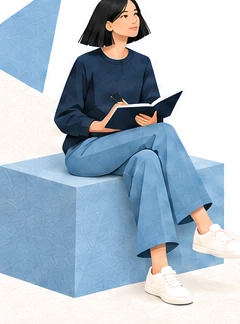
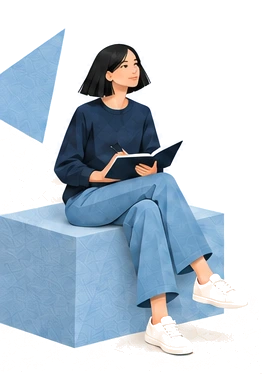
Offer page per design 05, stable question layout, visual and strength-first report
- #offer follows 05-report-offer with figures, ticked card, price and two perspectives
- question title sits in a fixed two-line slot; focusing it no longer scrolls the page
- question figure recut with the full head and a clean transparent background
- strengths lead in results and report; nuance box is quieter and last
- trait heads, facet cards, context cards and step cards with mini bars and chips

Claude-Session: https://claude.ai/code/session_01Pat3GFSHvYzsHQZoc1BQUK

diff --git a/app/ui.js b/app/ui.js
@@ -55,7 +55,7 @@ function assessment(focus=false){demo=false;report=null;
       <div class="d-progress"><span>${tr('Progress','Fremdrift')}</span><progress max="120" value="${count}" aria-label="${tr('Answered questions','Besvarte spørsmål')}: ${count} / 120"></progress><span>${percent} %</span></div>
       <p class="d-instruction">${tr('Answer based on how you usually are.','Svar ut fra hvordan du vanligvis er.')}</p>
       <p class="d-count">${tr('Question','Spørsmål')} ${index+1} ${tr('of','av')} 120</p>
-      <h1 class="d-question-title" id="question" tabindex="-1">${esc(q.text)}</h1>
+      <div class="d-title-slot"><h1 class="d-question-title${q.text.length>38?' is-long':''}" id="question" tabindex="-1">${esc(q.text)}</h1></div>
       <div class="d-choices" role="radiogroup" aria-labelledby="question" aria-describedby="auto-note">${anchors().map((a,i)=>`<label class="d-choice"><input type="radio" name="response" value="${i+1}" ${answers[q.id]===i+1?'checked':''}><span class="d-check" aria-hidden="true"></span><span class="d-choice-text">${a}</span></label>`).join('')}</div>
       <p class="sr-only" id="auto-note">${tr('Choosing an answer continues automatically. Use Tab, arrow keys and Space to select.','Når du velger et svar, går testen videre automatisk. Bruk Tab, piltaster og mellomrom for å velge.')}</p>
       <div class="d-actions"><button class="d-back" id="back" ${index===0?'disabled':''}><span aria-hidden="true">←</span> ${tr('Back','Tilbake')}</button><button class="d-next" id="forward" ${!answers[q.id]?'disabled':''}>${index===119?tr('See results','Se resultat'):tr('Next','Neste')} <span aria-hidden="true">→</span></button></div>
@@ -69,7 +69,7 @@ function assessment(focus=false){demo=false;report=null;
     input.addEventListener('click',()=>choose(Number(input.value)));});
   document.querySelector('#back').onclick=()=>{if(busy)return;index--;save();assessment(true);};
   document.querySelector('#forward').onclick=()=>{if(!busy&&answers[q.id])next();};
-  if(focus)document.querySelector('#question').focus();}
+  if(focus)document.querySelector('#question').focus({preventScroll:true});}
 function choose(value){if(busy)return;const token=++answerToken;busy=true;answers[questions[index].id]=value;save();document.querySelectorAll('.choice input').forEach(i=>i.disabled=true);setTimeout(()=>{if(token!==answerToken)return;busy=false;if(location.hash==='#test')next();},330);}
 function next(){if(index<119){index++;save();assessment(true);}else if(Object.keys(answers).length===120){location.hash='loading';}else{index=questions.findIndex(q=>!answers[q.id]);save();assessment(true);}}
 function calculate(isDemo=false){let source=answers;if(isDemo){source=Object.fromEntries(questions.map((q,i)=>[q.id,1+((i*7+Math.floor(i/7))%5)]));}report=createReport(scoreAssessment(questions,source),content);demo=isDemo;}
@@ -83,18 +83,48 @@ function results(){main.innerHTML=`<section class="d-results">${notice()}
     </div>
     <div class="d-first-look"><h2>${tr('A first look at your patterns','Et første blikk på mønstrene dine')}</h2><p>${esc(profileSummary(sorted(),language))}</p><p class="d-small">${tr('The traits describe tendencies, not fixed types.','Trekkene beskriver tendenser, ikke faste typer.')}</p></div>
     <div class="d-explore"><div class="d-explore-inner"><h2>${tr('Explore your traits','Utforsk trekkene dine')}</h2>
-      <div class="d-accordion">${sorted().map((d,i)=>`<details ${i===0?'open':''}><summary><span class="d-acc-name">${esc(name(d))}</span><span class="d-acc-line">${esc(traitLine(d,language))}<em>${esc(traitQuestion(d,language))}</em></span><span class="d-acc-icon" aria-hidden="true"></span></summary><div class="d-acc-body"><p class="eyebrow">${bandText(d.band)} · ${Number(d.mean).toFixed(2)} / 5</p><p>${esc(entry(d).meaning)}</p>${patternHtml(d)}<div class="detail-pair"><div><strong>${tr('A possible strength','En mulig styrke')}</strong><p>${esc(entry(d).strength)}</p></div><div><strong>${tr('Something to notice','Noe å legge merke til')}</strong><p>${esc(entry(d).watch)}</p></div></div></div></details>`).join('')}</div>
+      <div class="d-accordion">${sorted().map((d,i)=>`<details ${i===0?'open':''}><summary><span class="d-acc-name">${esc(name(d))}</span><span class="d-acc-line">${esc(traitLine(d,language))}<em>${esc(traitQuestion(d,language))}</em></span><span class="d-acc-icon" aria-hidden="true"></span></summary><div class="d-acc-body"><p class="eyebrow">${bandText(d.band)} · ${Number(d.mean).toFixed(2)} / 5</p>${strengthHtml(d)}<p>${esc(entry(d).meaning)}</p><div class="d-use"><strong>${tr('Getting the most from it','Slik får du mest ut av det')}</strong><p>${esc(entry(d).watch)}</p></div></div></details>`).join('')}</div>
       <div class="d-cta-row"><a class="d-cta" href="#offer">${tr('Explore the in-depth report','Utforsk fordypningsrapporten')} <span aria-hidden="true">→</span></a></div>
       <p class="d-small d-center">${interpretation()}</p>
       <div class="d-links"><a href="#method">${tr('Read the method','Les om metoden')}</a>${!demo?`<button class="text-button" id="edit">${tr('Review my answers','Se gjennom svarene mine')}</button>`:''}</div>
     </div></div></section>`;
   document.querySelector('#edit')?.addEventListener('click',()=>{index=0;location.hash='test';});}
-function offer(){main.innerHTML=`<section class="offer">${notice()}<p class="eyebrow">${tr('Your personality, in context','Personligheten din, i sammenheng')}</p><h1>${tr('Two perspectives.<br>One report.','To perspektiver.<br>Én rapport.')}</h1><p class="lead">${tr('A closer look at your five traits, 30 facets, and practical ideas for your work and everyday life.','Et nærmere blikk på fem trekk, 30 fasetter og praktiske ideer for arbeidslivet og hverdagen.')}</p><div class="offer-card"><p class="eyebrow">${tr('Full report · Preview access','Full rapport · Forhåndsvisning')}</p><h3>${tr('Understand. Reflect. Try.','Forstå. Reflekter. Prøv.')}</h3><p class="offer-price">${new Intl.NumberFormat(language==='no'?'nb-NO':'en-US',{style:'currency',currency:country==='NO'?'NOK':'USD',minimumFractionDigits:country==='NO'?0:2,maximumFractionDigits:country==='NO'?0:2}).format(country==='NO'?99:9.99)} <span>${tr('one-time purchase at launch','engangskjøp ved lansering')}</span></p><p>${tr('One report covering work, relationships, habits, and three small next steps.','Én rapport om arbeid, relasjoner, vaner og tre små neste steg.')}</p>${button(tr('Open your full report','Åpne hele rapporten'),'#report')}<p class="hint" style="margin:18px 0 0">${country==='NO'?tr('Free to explore in this preview. Checkout is not yet available. The planned one-time price is NOK 99.','Gratis å utforske i forhåndsvisningen. Betaling er ikke tilgjengelig ennå. Planlagt engangspris er 99 kr (NOK).'):tr('Free to explore in this preview. Checkout is not yet available. The planned one-time price is USD 9.99.','Gratis å utforske i forhåndsvisningen. Betaling er ikke tilgjengelig ennå. Planlagt engangspris er 9,99 USD.')}</p></div><div class="perspectives"><article><div class="art report-art" aria-hidden="true"><img src="assets/report-art.png" alt=""></div><h3>${tr('Work & career','Arbeidsliv og karriere')}</h3><p>${tr('Working style, collaboration, and environments to explore.','Arbeidsstil, samarbeid og miljøer å utforske.')}</p></article><article><div class="art report-art life" aria-hidden="true"><img src="assets/report-art.png" alt=""></div><h3>${tr('Everyday life','Hverdagsliv')}</h3><p>${tr('Social energy, communication, and everyday habits.','Sosial energi, kommunikasjon og hverdagsvaner.')}</p></article></div><a href="#results">← ${tr('Back to your free profile','Tilbake til gratisprofilen')}</a></section>`;}
-function facetHtml(f){return `<article class="facet"><h3>${esc(f.name)}</h3><p class="hint">${esc(f.content.description)}</p><p class="eyebrow">${bandText(f.band)} · ${f.mean.toFixed(2)} / 5</p><p>${esc(f.interpretation)}</p>${f.nearBoundary?`<p class="hint">${tr('Close to a wording boundary: read this as a gradual tendency, not a separate personality category.','Nær en grense for ordlyden: les dette som en gradvis tendens, ikke en egen personlighetskategori.')}</p>`:''}</article>`;}
-function patternHtml(d){return `<div class="facet-pattern"><h3>${tr('What the average can hide','Hva gjennomsnittet kan skjule')}</h3><p>${esc(d.pattern.text)}</p>${d.pattern.mixed?`<div class="detail-pair">${[d.pattern.high,d.pattern.low].map(f=>`<div><strong>${esc(f.name)} · ${f.mean.toFixed(2)} / 5</strong><p>${esc(f.interpretation)}</p></div>`).join('')}</div>`:''}</div>`;}
+function offer(){const price=new Intl.NumberFormat(language==='no'?'nb-NO':'en-US',{style:'currency',currency:country==='NO'?'NOK':'USD',minimumFractionDigits:country==='NO'?0:2,maximumFractionDigits:country==='NO'?0:2}).format(country==='NO'?99:9.99);
+  const tick=label=>`<li><span class="d-tick" aria-hidden="true"></span>${label}</li>`;
+  main.innerHTML=`<section class="d-offer">${notice()}
+    <a class="d-offer-back" href="#results"><span aria-hidden="true">←</span> ${tr('Back to your free profile','Tilbake til gratisprofilen')}</a>
+    <h1>${tr('Understand yourself.<br>Put it into practice.','Forstå deg selv.<br>Bruk det i praksis.')}</h1>
+    <p class="d-offer-sub">${tr('One in-depth report. Your personality at work and in everyday life.','Én fordypningsrapport. Personligheten din i arbeidslivet og i hverdagen.')}</p>
+    <div class="d-offer-stage">
+      <img class="d-offer-art" src="assets/design/offer-work.webp" alt="" aria-hidden="true">
+      <div class="d-offer-card">
+        <h2>${tr('Your in-depth report','Din fordypningsrapport')}</h2>
+        <ul>${tick(tr('A deeper look at your five traits and 30 facets','Et dypere blikk på fem trekk og 30 fasetter'))}${tick(tr('Work &amp; career insights','Innsikt om arbeidsliv og karriere'))}${tick(tr('Everyday life &amp; relationships','Hverdagsliv og relasjoner'))}${tick(tr('Three concrete next steps','Tre konkrete neste steg'))}</ul>
+        <p class="d-offer-terms">${tr('One payment. No subscription.','Én betaling. Ingen abonnement.')}</p>
+        <p class="d-offer-price">${price}</p>
+        <a class="d-offer-buy" href="#report">${tr('Get the full report','Få hele rapporten')} <span aria-hidden="true">→</span></a>
+        <p class="d-offer-keep">${tr('Your free profile stays available.','Gratisprofilen din er fortsatt tilgjengelig.')}</p>
+        <p class="d-offer-preview">${tr('Preview: checkout is not open yet, so the report opens for free.','Forhåndsvisning: betaling er ikke åpnet ennå, så rapporten åpnes gratis.')}</p>
+      </div>
+      <img class="d-offer-art" src="assets/design/offer-life.webp" alt="" aria-hidden="true">
+    </div>
+    <div class="d-offer-two">
+      <h2>${tr('Two perspectives. One report.','To perspektiver. Én rapport.')}</h2>
+      <div class="d-offer-cols">
+        <article><img src="assets/design/offer-tri-apricot.webp" alt="" aria-hidden="true"><div><h3>${tr('Work &amp; career','Arbeidsliv og karriere')}</h3><p>${tr('Explore your working style, collaboration and the environments that may suit you.','Utforsk arbeidsstilen din, samarbeid og miljøene som kan passe deg.')}</p><ul><li>${tr('Working with others','Samarbeid med andre')}</li><li>${tr('Structure and motivation','Struktur og motivasjon')}</li><li>${tr('Questions for your next step','Spørsmål til ditt neste steg')}</li></ul></div></article>
+        <article><img src="assets/design/offer-tri-blue.webp" alt="" aria-hidden="true"><div><h3>${tr('Everyday life','Hverdagsliv')}</h3><p>${tr('Understand your habits, social energy and the ways you respond to everyday demands.','Forstå vanene dine, den sosiale energien og hvordan du møter krav i hverdagen.')}</p><ul><li>${tr('Habits and routines','Vaner og rutiner')}</li><li>${tr('Communication and relationships','Kommunikasjon og relasjoner')}</li><li>${tr('Small changes to try','Små endringer å prøve')}</li></ul></div></article>
+      </div>
+    </div></section>`;}
+const traitPiece={O:'sky',C:'steel',E:'apricot',A:'navy',N:'ivory'};
+function bandShort(b){return b==='low'?tr('Lower','Lavere'):b==='high'?tr('Higher','Høyere'):tr('Middle','Midt');}
+function miniBar(mean,color='#8fb4d0'){const p=Math.max(0,Math.min(100,(mean-1)*25));return `<div class="d-mini" role="img" aria-label="${mean.toFixed(2)} / 5"><span style="width:${p}%;background:${color}"></span><i style="left:${p}%"></i></div>`;}
+function facetHtml(f){const code=f.code[0];return `<article class="facet d-facet"><div class="d-facet-top"><h4>${esc(f.name)}</h4><span class="d-chip d-chip-${f.band}">${bandShort(f.band)}</span></div>${miniBar(f.mean,traitColors[code])}<p class="d-facet-score">${f.mean.toFixed(2)} / 5</p><p>${esc(f.interpretation)}</p><p class="d-small">${esc(f.content.description)}</p>${f.nearBoundary?`<p class="d-small">${tr('Close to a wording boundary: read this as a gradual tendency, not a separate personality category.','Nær en grense for ordlyden: les dette som en gradvis tendens, ikke en egen personlighetskategori.')}</p>`:''}</article>`;}
+function strengthHtml(d){return `<div class="d-strength"><span class="d-strength-label">${tr('Your strength','Din styrke')}</span><p>${esc(entry(d).strength)}</p></div>`;}
+function patternHtml(d){return `<div class="facet-pattern d-pattern-box"><h3>${tr('Nuances in your profile','Nyanser i profilen din')}</h3><p>${esc(d.pattern.text)}</p>${d.pattern.mixed?`<div class="detail-pair">${[d.pattern.high,d.pattern.low].map(f=>`<div><strong>${esc(f.name)} · ${f.mean.toFixed(2)} / 5</strong>${miniBar(f.mean,traitColors[d.code])}<p>${esc(f.interpretation)}</p></div>`).join('')}</div>`:''}</div>`;}
+function traitHead(d){return `<header class="d-trait-head"><img src="assets/design/tri-${traitPiece[d.code]}.png" alt="" aria-hidden="true"><div class="d-trait-head-text"><h3 class="d-trait-title">${esc(name(d))}</h3><p><span class="d-chip d-chip-${d.band}">${bandShort(d.band)}</span> ${Number(d.mean).toFixed(2)} / 5</p></div><div class="d-trait-head-bar">${miniBar(Number(d.mean),traitColors[d.code])}<div class="d-scale-ends"><span>${tr('Lower','Lavere')}</span><span>${tr('Higher','Høyere')}</span></div></div></header>`;}
 function contextHtml(d,id){
   const facets=d.contextFacets;
-  return `<article class="context-item"><h3>${esc(d.name)}</h3><p>${esc(entry(d)[id])}</p>${facets.length?`<p class="hint">${tr('A closer look, based on the facets furthest from the response midpoint:','Et nærmere blikk, basert på fasettene lengst fra svarskalaens midtpunkt:')}</p>${facets.map(f=>`<div class="facet-context"><strong>${esc(f.name)} · ${f.mean.toFixed(2)} / 5</strong><p>${esc(f.interpretation)}</p><p>${esc(f.content[id])}</p></div>`).join('')}`:`<p class="hint">${tr('All six facets fall in the editorial middle range. Use the individual facet descriptions to identify where context matters; no strong directional advice is selected here.','Alle seks fasettene ligger i det redaksjonelle midtområdet. Bruk fasettbeskrivelsene for å se hvor situasjonen betyr noe; ingen tydelige retningsbestemte råd velges her.')}</p>`}</article>`;
+  return `<article class="context-item d-context-card"><div class="d-context-title"><img src="assets/design/tri-${traitPiece[d.code]}.png" alt="" aria-hidden="true"><h3>${esc(d.name)}</h3><span class="d-chip d-chip-${d.band}">${bandShort(d.band)}</span></div><p class="d-context-lead">${esc(entry(d)[id])}</p>${facets.length?`<div class="d-context-facets">${facets.map(f=>`<div class="facet-context"><strong>${esc(f.name)} · ${f.mean.toFixed(2)} / 5</strong>${miniBar(f.mean,traitColors[d.code])}<p>${esc(f.interpretation)}</p><p class="d-try"><span>${tr('Try','Prøv')}</span>${esc(f.content[id])}</p></div>`).join('')}</div>`:`<p class="d-small">${tr('All six facets fall in the editorial middle range. Use the individual facet descriptions to identify where context matters; no strong directional advice is selected here.','Alle seks fasettene ligger i det redaksjonelle midtområdet. Bruk fasettbeskrivelsene for å se hvor situasjonen betyr noe; ingen tydelige retningsbestemte råd velges her.')}</p>`}</article>`;
 }
 function fullReport(active='overview'){
   const chapters=[['overview',tr('Overview','Oversikt')],['traits',tr('Your five traits','Dine fem trekk')],['work',tr('Work & career','Arbeidsliv og karriere')],['life',tr('Everyday life','Hverdagsliv')],['steps',tr('Your next steps','Dine neste steg')]];
@@ -116,9 +146,9 @@ function fullReport(active='overview'){
     <div class="d-step-box"><svg class="d-plane" viewBox="0 0 48 48" aria-hidden="true"><path d="M4 22 44 6 30 42 22 28z" fill="#5aa9e6"/><path d="M22 28 44 6 26 34z" fill="#2f7fc4"/></svg><div><h2>${tr('One small step to try','Ett lite steg å prøve')}</h2><p>${step?esc(step.content.life):tr('Choose one facet that interests you and compare two everyday situations this week.','Velg en fasett du er nysgjerrig på, og sammenlign to hverdagssituasjoner denne uken.')}</p><hr><p class="eyebrow">${tr('Reflect','Reflekter')}</p><p class="d-reflect">${esc(reflection(sorted(),language))}</p></div></div>
     <div class="notice d-disclaimer">${tr('This is a self-reflection tool, not a diagnosis, ability test, or recommendation for a particular job. Results reflect your self-reported answers today.','Dette er et verktøy for selvrefleksjon, ikke en diagnose, evnetest eller anbefaling av et bestemt yrke. Resultatene bygger på dine egne svar i dag.')}</div>
     ${nextLink('overview')}</section>`;
-  const traits=`<section class="d-chapter" id="traits" data-chapter="traits"><p class="eyebrow">02</p><h2 class="d-chapter-title">${tr('Your five traits','Dine fem trekk')}</h2><p>${esc(content.introduction)}</p><p>${tr('Each broad trait brings together six narrower facets. Four items per facet give a useful starting point, with more uncertainty than the broad scales.','Hvert overordnet trekk samler seks mer avgrensede fasetter. Fire utsagn per fasett gir et nyttig utgangspunkt, med større usikkerhet enn de overordnede skalaene.')}</p>${sorted().map(d=>`<section class="trait-chapter"><h3 class="d-trait-title">${esc(name(d))}</h3><p class="eyebrow">${bandText(d.band)} · ${Number(d.mean).toFixed(2)} / 5</p><p>${esc(content.domains?.[d.code]?.description||'')}</p><p>${esc(entry(d).meaning)}</p>${patternHtml(d)}<div class="detail-pair"><div><strong>${tr('A possible strength','En mulig styrke')}</strong><p>${esc(entry(d).strength)}</p></div><div><strong>${tr('Something to notice','Noe å legge merke til')}</strong><p>${esc(entry(d).watch)}</p></div></div><h4>${tr('The details within this trait','Detaljene i dette trekket')}</h4><div class="facet-grid">${d.facets.map(facetHtml).join('')}</div></section>`).join('')}${nextLink('traits')}</section>`;
+  const traits=`<section class="d-chapter" id="traits" data-chapter="traits"><p class="eyebrow">02</p><h2 class="d-chapter-title">${tr('Your five traits','Dine fem trekk')}</h2><p>${esc(content.introduction)}</p><p>${tr('Each broad trait brings together six narrower facets. Four items per facet give a useful starting point, with more uncertainty than the broad scales.','Hvert overordnet trekk samler seks mer avgrensede fasetter. Fire utsagn per fasett gir et nyttig utgangspunkt, med større usikkerhet enn de overordnede skalaene.')}</p>${sorted().map(d=>`<section class="trait-chapter d-trait-chapter">${traitHead(d)}<p>${esc(content.domains?.[d.code]?.description||'')}</p>${strengthHtml(d)}<p>${esc(entry(d).meaning)}</p><div class="d-use"><strong>${tr('Getting the most from it','Slik får du mest ut av det')}</strong><p>${esc(entry(d).watch)}</p></div>${patternHtml(d)}<h4 class="d-details-title">${tr('The six facets','De seks fasettene')}</h4><div class="facet-grid">${d.facets.map(facetHtml).join('')}</div></section>`).join('')}${nextLink('traits')}</section>`;
   const context=[['work',tr('Work & career','Arbeidsliv og karriere'),'03','report-work'],['life',tr('Everyday life','Hverdagsliv'),'04','report-life']].map(([id,label,n,img])=>`<section class="d-chapter" id="${id}" data-chapter="${id}"><p class="eyebrow">${n}</p><div class="d-context-head"><div><h2 class="d-chapter-title">${label}</h2><p class="d-sub">${id==='work'?tr('Use these ideas to explore how you work, rather than to choose a job title.','Bruk ideene til å utforske hvordan du jobber, fremfor å velge en yrkestittel.'):tr('Notice what fits your life, and adapt what you try to the people and situations around you.','Legg merke til hva som passer i livet ditt, og tilpass det du prøver til menneskene og situasjonene rundt deg.')}</p></div><img src="assets/design/${img}.webp" alt="" aria-hidden="true"></div>${sorted().map(d=>contextHtml(d,id)).join('')}${nextLink(id)}</section>`).join('');
-  const steps=`<section class="d-chapter" id="steps" data-chapter="steps"><p class="eyebrow">05</p><h2 class="d-chapter-title">${tr('Your next steps','Dine neste steg')}</h2><p class="d-sub">${tr('If a suggestion fits, try it for a week, then ask what changed. These suggestions follow up to three facet means furthest from the response midpoint, outside the editorial middle range. They are ideas to try, not predictions of what will work.','Hvis et forslag passer, prøv det i en uke og spør hva som endret seg. Forslagene følger opptil tre fasettgjennomsnitt lengst fra svarskalaens midtpunkt, utenfor det redaksjonelle midtområdet. Dette er ideer å prøve, ikke spådommer om hva som virker.')}</p>${report.nextSteps.map((f,i)=>`<article class="step"><p class="eyebrow">0${i+1} · ${esc(f.name)} · ${f.mean.toFixed(2)} / 5</p><h3>${tr('An experiment for this week','Et eksperiment denne uken')}</h3><p>${esc(f.interpretation)}</p><p>${esc(f.content.life)}</p><p class="hint">${tr('Reflect: What happened? What helped? What would you change next time?','Reflekter: Hva skjedde? Hva hjalp? Hva vil du endre neste gang?')}</p></article>`).join('')}${report.nextSteps.length?'':`<div class="notice">${tr('Your facet scores are all in the middle range. Instead of inventing three standout tendencies, choose one facet that interests you and compare two everyday situations over the next week.','Alle fasettskårene dine ligger i midtområdet. Fremfor å finne på tre fremtredende tendenser: velg en fasett du er nysgjerrig på og sammenlign to hverdagssituasjoner den neste uken.')}</div>`}<p>${tr('A score is a prompt for curiosity. Keep the parts that help you make a useful observation, and revisit your conclusions as you learn more.','En skår er en invitasjon til nysgjerrighet. Bruk det som hjelper deg å gjøre en nyttig observasjon, og vurder konklusjonene på nytt etter hvert som du lærer mer.')}</p><p class="hint">IPIP-NEO-120 · ${esc(report.instrumentVersion||'')} · ${esc(report.reportVersion)} · ${tr('Method and references','Metode og referanser')}: <a href="#method">${tr('Read the evidence and limitations','Les om grunnlaget og begrensningene')}</a></p><p class="hint">Johnson (2014): <a href="https://doi.org/10.1016/j.jrp.2014.05.003">doi.org/10.1016/j.jrp.2014.05.003</a><br>IPIP: <a href="https://ipip.ori.org/newScoringInstructions.htm">ipip.ori.org/newScoringInstructions.htm</a></p>${nextLink('steps')}</section>`;
+  const steps=`<section class="d-chapter" id="steps" data-chapter="steps"><p class="eyebrow">05</p><h2 class="d-chapter-title">${tr('Your next steps','Dine neste steg')}</h2><p class="d-sub">${tr('If a suggestion fits, try it for a week, then ask what changed. These suggestions follow up to three facet means furthest from the response midpoint, outside the editorial middle range. They are ideas to try, not predictions of what will work.','Hvis et forslag passer, prøv det i en uke og spør hva som endret seg. Forslagene følger opptil tre fasettgjennomsnitt lengst fra svarskalaens midtpunkt, utenfor det redaksjonelle midtområdet. Dette er ideer å prøve, ikke spådommer om hva som virker.')}</p>${report.nextSteps.map((f,i)=>`<article class="step d-step"><span class="d-step-num">${i+1}</span><div><p class="d-step-facet"><img src="assets/design/tri-${traitPiece[f.code[0]]}.png" alt="" aria-hidden="true">${esc(f.name)} · ${f.mean.toFixed(2)} / 5</p><h3>${tr('An experiment for this week','Et eksperiment denne uken')}</h3>${miniBar(f.mean,traitColors[f.code[0]])}<p>${esc(f.interpretation)}</p><p class="d-try"><span>${tr('Try','Prøv')}</span>${esc(f.content.life)}</p><p class="hint">${tr('Reflect: What happened? What helped? What would you change next time?','Reflekter: Hva skjedde? Hva hjalp? Hva vil du endre neste gang?')}</p></div></article>`).join('')}${report.nextSteps.length?'':`<div class="notice">${tr('Your facet scores are all in the middle range. Instead of inventing three standout tendencies, choose one facet that interests you and compare two everyday situations over the next week.','Alle fasettskårene dine ligger i midtområdet. Fremfor å finne på tre fremtredende tendenser: velg en fasett du er nysgjerrig på og sammenlign to hverdagssituasjoner den neste uken.')}</div>`}<p>${tr('A score is a prompt for curiosity. Keep the parts that help you make a useful observation, and revisit your conclusions as you learn more.','En skår er en invitasjon til nysgjerrighet. Bruk det som hjelper deg å gjøre en nyttig observasjon, og vurder konklusjonene på nytt etter hvert som du lærer mer.')}</p><p class="hint">IPIP-NEO-120 · ${esc(report.instrumentVersion||'')} · ${esc(report.reportVersion)} · ${tr('Method and references','Metode og referanser')}: <a href="#method">${tr('Read the evidence and limitations','Les om grunnlaget og begrensningene')}</a></p><p class="hint">Johnson (2014): <a href="https://doi.org/10.1016/j.jrp.2014.05.003">doi.org/10.1016/j.jrp.2014.05.003</a><br>IPIP: <a href="https://ipip.ori.org/newScoringInstructions.htm">ipip.ori.org/newScoringInstructions.htm</a></p>${nextLink('steps')}</section>`;
   const reading=`<section class="d-chapter" id="reading" data-chapter="reading"><h2 class="d-chapter-title">${tr('How to read this report','Slik leser du rapporten')}</h2><p>${interpretation()}</p><ul class="source-list">${(content.limitations||[]).map(text=>`<li>${esc(text)}</li>`).join('')}</ul></section>`;
   main.innerHTML=`<div class="d-report">
     <aside class="d-contents"><nav aria-label="${tr('Report chapters','Rapportkapitler')}"><p class="eyebrow">${tr('Contents','Innhold')}</p>${chapters.map(([id,label],i)=>`<a href="#report/${id}" ${id===active?'aria-current="page"':''}><span>0${i+1}</span>${label}</a>`).join('')}<hr><a class="d-howto" href="#report/reading" ${active==='reading'?'aria-current="page"':''}><svg viewBox="0 0 24 24" aria-hidden="true"><path d="M2 5c3-1.5 7-1.5 10 1 3-2.5 7-2.5 10-1v14c-3-1.5-7-1.5-10 1-3-2.5-7-2.5-10-1zM12 6v14"/></svg>${tr('How to read your results','Slik leser du resultatene')}</a></nav></aside>

diff --git a/app/design.css b/app/design.css
@@ -222,6 +222,112 @@ details[open] .d-acc-icon::after{transform:rotate(0)}
   .d-step-box{grid-template-columns:1fr}
 }
 
+/* Question title: fixed two-line slot so the page never jumps between items */
+.d-title-slot{display:flex;align-items:center;justify-content:center;min-height:calc(2 * 1.08 * clamp(36px,5vw,68px));margin:30px auto 40px;max-width:960px}
+.d-title-slot .d-question-title{margin:0;font-size:clamp(36px,5vw,68px)}
+.d-title-slot .d-question-title.is-long{font-size:clamp(32px,4.2vw,56px)}
+@media(max-width:760px){
+  .d-title-slot{min-height:calc(3 * 1.12 * 32px);margin:18px auto 22px}
+  .d-title-slot .d-question-title,.d-title-slot .d-question-title.is-long{font-size:clamp(26px,8vw,34px);line-height:1.12}
+}
+
+/* Offer page (05) */
+.d-offer{max-width:1200px;margin:0 auto;padding:28px 24px 70px;text-align:center;color:var(--title)}
+.d-offer-back{display:inline-block;color:var(--title);font-size:17px;text-decoration:none;margin-bottom:22px}
+.d-offer-back:hover{text-decoration:underline}
+.d-offer h1{margin:0;font:400 clamp(42px,6vw,76px)/1.02 Georgia,serif;letter-spacing:-.05em;color:var(--title)}
+.d-offer-sub{margin:18px auto 30px;max-width:640px;color:#1f4fa0;font-size:20px}
+.d-offer-stage{display:grid;grid-template-columns:1fr minmax(320px,430px) 1fr;gap:24px;align-items:end}
+.d-offer-art{width:100%;max-width:380px;justify-self:center}
+.d-offer-card{border:2px solid var(--title);border-radius:6px;background:#fffefb;padding:30px 32px 24px;text-align:left;box-shadow:0 10px 30px rgba(16,39,71,.08)}
+.d-offer-card h2{margin:0 0 18px;font:400 32px/1.1 Georgia,serif;letter-spacing:-.035em;text-align:center}
+.d-offer-card ul{list-style:none;margin:0 0 18px;padding:0;display:grid;gap:12px}
+.d-offer-card li{display:flex;gap:12px;align-items:flex-start;font-size:17px;line-height:1.35}
+.d-tick{flex:none;width:26px;height:26px;border-radius:50%;background:#dbe8f3;position:relative;margin-top:1px}
+.d-tick::after{content:'';position:absolute;left:8px;top:4px;width:6px;height:11px;border:solid var(--title);border-width:0 2px 2px 0;transform:rotate(45deg)}
+.d-offer-terms{margin:0;padding-top:16px;border-top:1px solid #cfdbe6;text-align:center;color:#4f6d8c;font-size:15px}
+.d-offer-price{margin:12px 0 16px;padding:14px;border-radius:6px;background:var(--sky);text-align:center;font:400 44px/1 Georgia,serif;letter-spacing:-.03em}
+.d-offer-buy{display:flex;justify-content:center;gap:12px;padding:17px 20px;border-radius:4px;background:#13284f;color:#fff;font-size:19px;font-weight:700;text-decoration:none}
+.d-offer-buy:hover{background:#0c1a36}
+.d-offer-keep{margin:14px 0 4px;text-align:center;font-size:15px}
+.d-offer-preview{margin:0;text-align:center;font-size:13px;color:#6b7f95}
+.d-offer-two{margin-top:60px;padding-top:40px;border-top:1px solid #cfdbe6}
+.d-offer-two h2{margin:0 0 30px;font:400 clamp(32px,4vw,46px)/1.1 Georgia,serif;letter-spacing:-.04em}
+.d-offer-cols{display:grid;grid-template-columns:1fr 1fr;text-align:left}
+.d-offer-cols article{display:grid;grid-template-columns:80px 1fr;gap:22px;padding:0 34px}
+.d-offer-cols article+article{border-left:1px solid #cfdbe6}
+.d-offer-cols img{width:72px}
+.d-offer-cols h3{margin:0 0 8px;font:400 28px/1.1 Georgia,serif;letter-spacing:-.03em}
+.d-offer-cols p{margin:0 0 10px;color:#1f4fa0}
+.d-offer-cols ul{list-style:none;margin:0;padding:0}
+.d-offer-cols li{padding:3px 0}
+.d-offer-cols li{color:#1f4fa0}.d-offer-cols li::before{content:'';display:inline-block;width:24px;height:1.5px;margin:0 14px 4px 0;background:#8fb4d0}
+@media(max-width:900px){
+  .d-offer{padding:18px 16px 50px}
+  .d-offer-stage{grid-template-columns:1fr}
+  .d-offer-art{display:none}
+  .d-offer-card{padding:24px 18px 20px}
+  .d-offer-cols{grid-template-columns:1fr;gap:28px}
+  .d-offer-cols article,.d-offer-cols article+article{padding:0;border-left:0;grid-template-columns:70px 1fr;gap:14px}
+  .d-offer-cols img{width:70px}
+}
+
+/* Visual report parts */
+.d-mini{position:relative;height:10px;border-radius:5px;background:#e9edf1;margin:8px 0;max-width:420px}
+.d-mini span{display:block;height:100%;border-radius:5px}
+.d-mini i{position:absolute;top:50%;width:16px;height:16px;border-radius:50%;background:var(--title);border:3px solid #fffefb;transform:translate(-50%,-50%);box-shadow:0 1px 3px rgba(0,0,0,.2)}
+.d-chip{display:inline-block;padding:3px 10px;border-radius:999px;font-size:12px;font-weight:700;letter-spacing:.06em;text-transform:uppercase;vertical-align:middle}
+.d-chip-low{background:#dbe8f3;color:#1f4fa0}
+.d-chip-middle{background:#eef0f2;color:#4f5d6c}
+.d-chip-high{background:#fde3d4;color:#a2421b}
+.d-trait-chapter{margin:30px 0 40px;padding:24px;border:1px solid #cfdbe6;border-radius:8px;background:#fffefb}
+.d-trait-head{display:grid;grid-template-columns:72px 1fr minmax(180px,320px);gap:20px;align-items:center;margin-bottom:16px}
+.d-trait-head img{width:72px}
+.d-trait-head-text p{margin:6px 0 0;color:var(--title);font-weight:700}
+.d-trait-head-bar .d-mini{height:14px}
+.d-scale-ends{display:flex;justify-content:space-between;font-size:12px;color:#6b7f95;max-width:420px}
+.d-pattern-box{padding:20px 22px;border-left:4px solid #f6b18d;background:var(--warm);border-radius:0 6px 6px 0}
+.d-pattern-box h3{margin:0 0 8px;font:400 24px/1.15 Georgia,serif;color:var(--title)}
+.d-pattern-box .detail-pair{display:grid;grid-template-columns:1fr 1fr;gap:18px;margin-top:12px}
+.d-details-title{margin:26px 0 12px;font:400 22px/1.2 Georgia,serif;color:var(--title)}
+.d-facet{border:1px solid #dfe7ef!important;border-radius:6px!important;background:#fff!important;padding:16px 18px!important}
+.d-facet-top{display:flex;justify-content:space-between;align-items:center;gap:10px}
+.d-facet-top h4{margin:0;font:400 20px/1.2 Georgia,serif;color:var(--title)}
+.d-facet-score{margin:0 0 6px;font-size:13px;color:#6b7f95}
+.d-context-card{border:1px solid #cfdbe6!important;border-radius:8px!important;background:#fffefb!important;padding:22px!important;margin:0 0 18px!important}
+.d-context-title{display:flex;align-items:center;gap:14px;margin-bottom:8px}
+.d-context-title img{width:44px}
+.d-context-title h3{margin:0;font:400 28px/1.1 Georgia,serif;letter-spacing:-.03em;color:var(--title)}
+.d-context-lead{font-size:18px;color:var(--title)}
+.d-context-facets{display:grid;grid-template-columns:repeat(auto-fit,minmax(240px,1fr));gap:16px;margin-top:14px}
+.d-context-facets .facet-context{padding:14px 16px;border-radius:6px;background:var(--sky)}
+.d-try{margin:10px 0 0;padding:10px 12px;border-radius:6px;background:var(--warm);color:var(--title)}
+.d-try span{display:inline-block;margin-right:8px;padding:1px 8px;border-radius:999px;background:#f6b18d;color:var(--title);font-size:12px;font-weight:700;letter-spacing:.06em;text-transform:uppercase}
+.d-step{display:grid!important;grid-template-columns:56px 1fr;gap:18px;padding:22px!important;margin:0 0 18px!important;border:1px solid #cfdbe6!important;border-radius:8px!important;background:#fffefb!important}
+.d-step-num{display:flex;align-items:center;justify-content:center;width:48px;height:48px;border-radius:50%;background:#13284f;color:#fff;font:400 24px/1 Georgia,serif}
+.d-step-facet{display:flex;align-items:center;gap:10px;margin:0;color:#4f6d8c;font-size:14px;font-weight:700;letter-spacing:.04em;text-transform:uppercase}
+.d-step-facet img{width:28px}
+.d-step h3{margin:6px 0 4px;font:400 26px/1.15 Georgia,serif;color:var(--title)}
+@media(max-width:900px){
+  .d-trait-chapter{padding:16px}
+  .d-trait-head{grid-template-columns:52px 1fr}
+  .d-trait-head img{width:52px}
+  .d-trait-head-bar{grid-column:1/-1}
+  .d-pattern-box .detail-pair{grid-template-columns:1fr}
+  .d-step{grid-template-columns:1fr}
+}
+
+/* Positive lead: strength first, nuance last and quieter */
+.d-strength{margin:14px 0 16px;padding:18px 22px;border-radius:8px;background:linear-gradient(135deg,#fde3d4,#fdeee5)}
+.d-strength-label{display:inline-flex;align-items:center;gap:8px;font-size:13px;font-weight:700;letter-spacing:.1em;text-transform:uppercase;color:#a2421b}
+.d-strength-label::before{content:'';width:14px;height:12px;background:#f6b18d;clip-path:polygon(50% 0,100% 100%,0 100%)}
+.d-strength p{margin:6px 0 0;font:400 22px/1.35 Georgia,serif;color:var(--title)}
+.d-use{margin:16px 0 0;padding:14px 18px;border-radius:8px;background:var(--sky)}
+.d-use strong{display:block;font-size:13px;letter-spacing:.1em;text-transform:uppercase;color:#1f4fa0}
+.d-use p{margin:6px 0 0}
+.d-pattern-box{margin-top:18px;border-left-color:#c5d6e5!important;background:#f6f8fa!important}
+.d-pattern-box h3{font-size:19px!important}
+
 /* Print: the whole report, one chapter after another */
 @media print{
   .d-contents,.d-report-toolbar,.d-next-chapter,.d-explore-cards a{display:none!important}

diff --git a/docs/decisions.md b/docs/decisions.md
@@ -63,3 +63,10 @@ Registrert fra samtalen 11. oktober 2026. «Valgt» nedenfor viser brukerens utt
 - Gratisresultatet følger 04-free-results: figurer rundt profilkortet, «Et første blikk på mønstrene dine» og utfellbare trekk. Den personlige setningen velges deterministisk fra trekkene lengst fra midtpunktet (app/design-copy.js).
 - Rapporten følger 06-report-reader: ett kapittel om gangen med kapittelmeny, oversikt med «Det store bildet», illustrerte kapittelkort, «Ett lite steg å prøve» og «Neste»-lenke. Utskrift/PDF tar med alle kapitler.
 - Logoen er skåret ut fra originalen med gjennomsiktig bakgrunn (app/assets/design/logo.png). Figurer er hentet fra de valgte designbildene.
+
+## Kjøpsside, stabil spørsmålsside og positiv vinkling 2026-10-11
+- Kjøpssiden (#offer) følger 05-report-offer: overskrift, figurer på hver side av kjøpskortet, fire punkter, pris, kjøpsknapp og «To perspektiver. Én rapport.». Betaling er fortsatt ikke implementert; knappen åpner rapporten gratis i forhåndsvisningen, og kortet sier det.
+- Spørsmålstittelen står i et felt med fast høyde, så svarfeltene ikke flytter seg når en tittel går over to linjer. Fokus på ny tittel ruller ikke siden.
+- Figuren på spørsmålssiden er skåret på nytt med hele hodet.
+- Rune ba om vekt på det positive. I gratisresultat og rapport kommer «Din styrke» først og fremhevet, deretter forklaringen og «Slik får du mest ut av det». «Hva gjennomsnittet kan skjule» heter nå «Nyanser i profilen din», står sist og er dempet, og er tatt ut av gratisresultatet. Tekstene er de samme regelstyrte tekstene som før, så koblingen mellom skår og råd er uendret.
+- Rapporten er gjort mer visuell: trekkhoder med logobit, stolpe og nivåmerke, fasettkort med egne stolper, kontekstkort med «Prøv»-forslag og nummererte stegkort.

diff --git a/docs/verification.md b/docs/verification.md
@@ -40,3 +40,7 @@ Independent code-review receipt and deployment outcome will be recorded after co
 ## Designtilpasning (2026-10-11)
 - `npm test`: 11 av 11 består. Alle fem nettleserskriptene (`browser-check`, `preview-check`, `design-check`, `locale-race-check`, `report-upgrade-check`) består i Chromium etter at selektorene ble oppdatert til de nye skjermene.
 - Gjennomgått med 120 svar på 1440 px og 390 px: ingen sideveis scrolling og ingen konsollfeil. Utskrift av eksempelrapporten gir 22 A4-sider med alle kapitler.
+
+## Kjøpsside og stabil spørsmålsside (2026-10-11)
+- Svarfeltenes plassering på siden ble målt for de 30 første spørsmålene på 1440, 1366 og 390 px. Den var identisk for alle spørsmål, også når tittelen går over to linjer.
+- Kjøpssiden, trekk-, hverdags- og stegkapitlet ble gjennomgått på 1440 px og 390 px: ingen sideveis scrolling og ingen konsollfeil.
